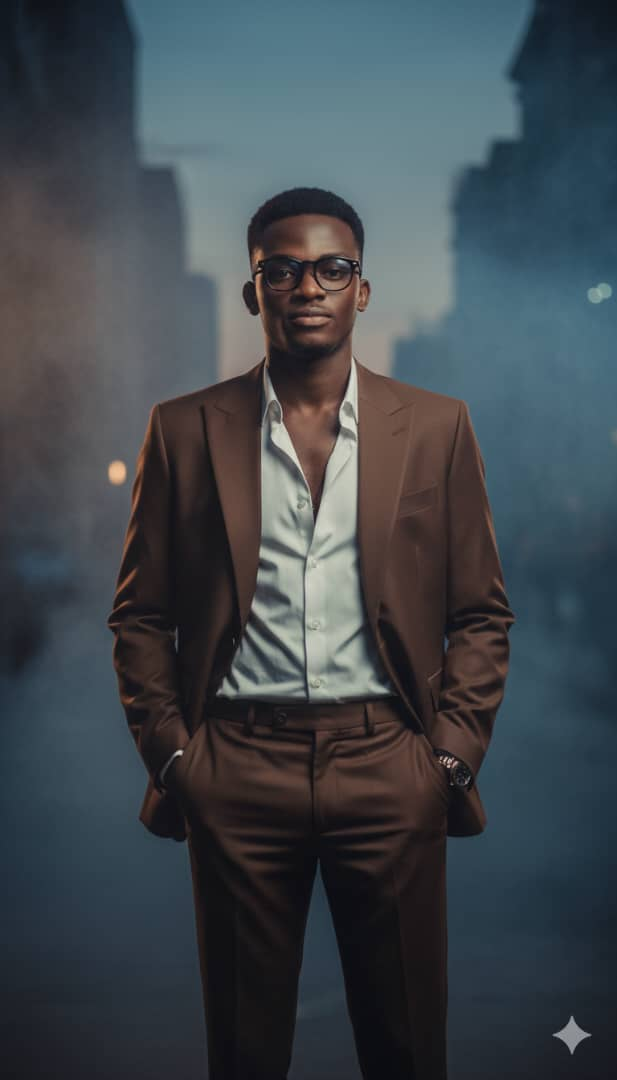
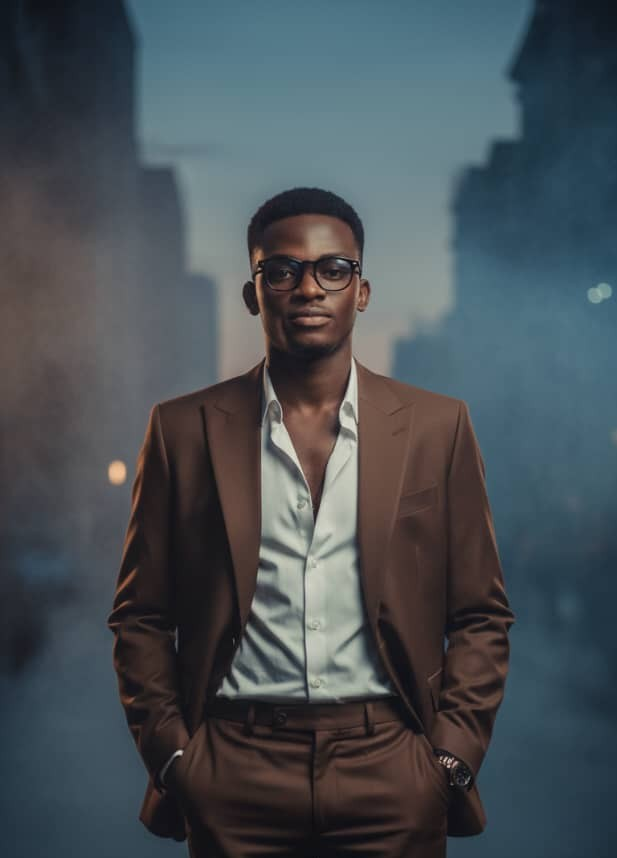
Ajout de la photo de zola et arrangement de l'affichage des image

diff --git a/style.css b/style.css
@@ -1705,12 +1705,9 @@ a:hover {
 }
 
 .member-photo {
-    width: 80px;
-    height: 80px;
-    border-radius: 50%;
+    width: 50%;
+    height: auto;
     object-fit: cover;
-    border: 3px solid var(--primary);
-    flex-shrink: 0;
 }
 
 .member-info {
